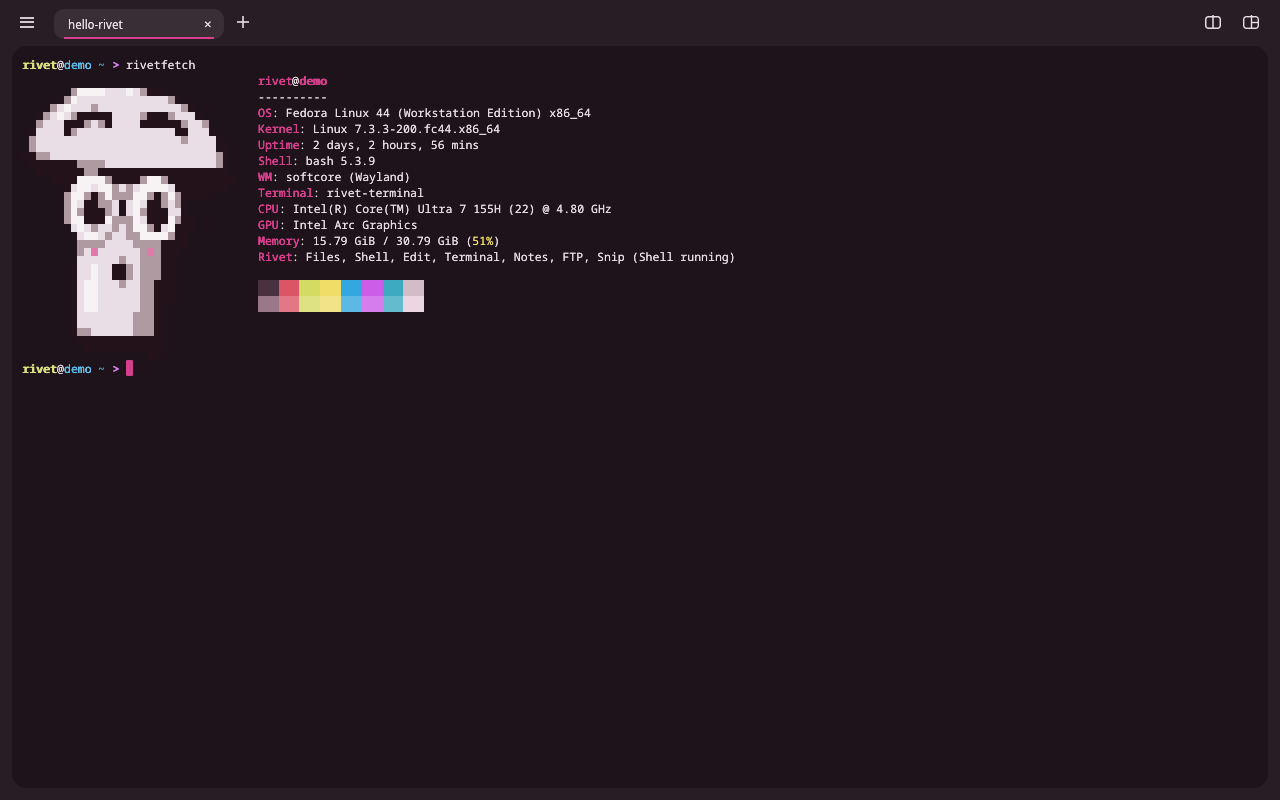
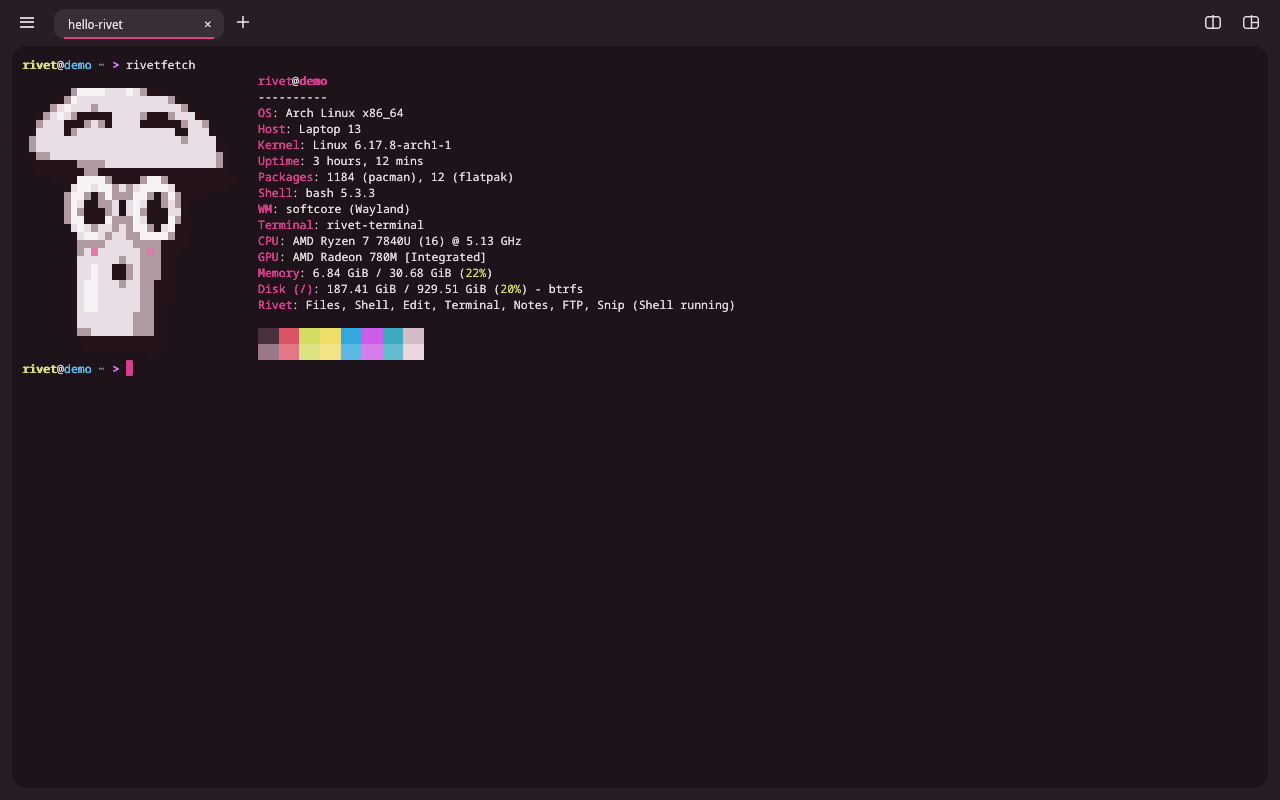
Rivet Vice, Fetch: fuller screenshots with made-up data
Vice's sample archive has 31 files in five folders, and Fetch's picture shows RIVET_FETCH_DEMO's computer instead of the one that took it.

Changed region(s): [[0.1875, 0.125, 0.5625, 0.4688]]

diff --git a/apps/rivet-vice/src/gui.rs b/apps/rivet-vice/src/gui.rs
@@ -147,7 +147,45 @@ fn demo() -> Vec<Entry> {
     let at = 1_795_000_000;
     let f = |path: &str, size: u64, days: i64| Entry { path: path.into(), dir: false, size, modified: at - days * 86400 - size as i64 % 80000 };
     let d = |path: &str, days: i64| Entry { path: path.into(), dir: true, size: 0, modified: at - days * 86400 };
-    vec![d("Trip", 3), d("Trip/Photos", 3), f("Trip/Photos/harbor.jpg", 3_412_880, 9), f("Trip/Photos/lighthouse.jpg", 2_904_112, 9), f("Trip/Photos/low tide.jpg", 4_120_034, 8), d("Trip/Receipts", 5), f("Trip/Receipts/ferry.pdf", 88_410, 12), f("Trip/Receipts/hotel.pdf", 131_902, 11), f("Trip/itinerary.md", 4_211, 20), f("Trip/packing list.txt", 912, 25), f("Trip/route.gpx", 248_330, 14)]
+    vec![
+        d("Trip", 3),
+        d("Trip/Maps", 15),
+        f("Trip/Maps/coast.pdf", 1_204_880, 16),
+        f("Trip/Maps/town.png", 742_116, 15),
+        d("Trip/Notes", 4),
+        f("Trip/Notes/day one.md", 3_120, 9),
+        f("Trip/Notes/day two.md", 2_874, 8),
+        f("Trip/Notes/places to eat.md", 1_874, 4),
+        d("Trip/Photos", 3),
+        f("Trip/Photos/beach huts.jpg", 2_611_004, 9),
+        f("Trip/Photos/cliff path.jpg", 3_002_517, 8),
+        f("Trip/Photos/harbor.jpg", 3_412_880, 9),
+        f("Trip/Photos/lighthouse.jpg", 2_904_112, 9),
+        f("Trip/Photos/low tide.jpg", 4_120_034, 8),
+        f("Trip/Photos/market.jpg", 2_250_870, 7),
+        f("Trip/Photos/pier at dusk.jpg", 3_780_221, 7),
+        f("Trip/Photos/rock pools.jpg", 2_488_660, 6),
+        d("Trip/Receipts", 5),
+        f("Trip/Receipts/ferry.pdf", 88_410, 12),
+        f("Trip/Receipts/hotel.pdf", 131_902, 11),
+        f("Trip/Receipts/museum.pdf", 46_220, 8),
+        d("Trip/Videos", 6),
+        f("Trip/Videos/ferry.mp4", 48_220_114, 9),
+        f("Trip/Videos/waves.mp4", 31_880_402, 6),
+        f("Trip/bookings.ics", 5_610, 21),
+        f("Trip/budget.ods", 18_204, 18),
+        f("Trip/contacts.vcf", 2_118, 22),
+        f("Trip/ferry times.pdf", 152_330, 19),
+        f("Trip/itinerary.md", 4_211, 20),
+        f("Trip/packing list.txt", 912, 25),
+        f("Trip/playlist.m3u", 1_480, 17),
+        f("Trip/route.gpx", 248_330, 14),
+        f("Trip/souvenirs.txt", 640, 5),
+        f("Trip/tickets.pdf", 96_118, 23),
+        f("Trip/tide tables.csv", 7_942, 16),
+        f("Trip/trail map.png", 1_884_506, 15),
+        f("Trip/weather.json", 3_306, 10),
+    ]
 }
 
 impl ViceApp {
@@ -724,11 +762,17 @@ mod tests {
         let all = demo();
         let name = |i: &usize| all[*i].name().to_string();
         // Folders first, then by name.
-        assert_eq!(children(&all, "Trip", (Sort::Name, true)).iter().map(name).collect::<Vec<_>>(), ["Photos", "Receipts", "itinerary.md", "packing list.txt", "route.gpx"]);
+        assert_eq!(
+            children(&all, "Trip", (Sort::Name, true)).iter().map(name).collect::<Vec<_>>(),
+            ["Maps", "Notes", "Photos", "Receipts", "Videos", "bookings.ics", "budget.ods", "contacts.vcf", "ferry times.pdf", "itinerary.md", "packing list.txt", "playlist.m3u", "route.gpx", "souvenirs.txt", "tickets.pdf", "tide tables.csv", "trail map.png", "weather.json"]
+        );
         // Turned round, the biggest file comes first; folders stay on top, in turned-round order too.
-        assert_eq!(children(&all, "Trip", (Sort::Size, false)).iter().map(name).collect::<Vec<_>>(), ["Receipts", "Photos", "route.gpx", "itinerary.md", "packing list.txt"]);
+        assert_eq!(
+            children(&all, "Trip", (Sort::Size, false)).iter().map(name).collect::<Vec<_>>(),
+            ["Videos", "Receipts", "Photos", "Notes", "Maps", "trail map.png", "route.gpx", "ferry times.pdf", "tickets.pdf", "budget.ods", "tide tables.csv", "bookings.ics", "itinerary.md", "weather.json", "contacts.vcf", "playlist.m3u", "packing list.txt", "souvenirs.txt"]
+        );
         assert_eq!(children(&all, "", (Sort::Name, true)).iter().map(name).collect::<Vec<_>>(), ["Trip"]);
-        assert_eq!(inside(&all, "Trip/Receipts"), (2, 88_410 + 131_902));
-        assert_eq!(inside(&all, "Trip").0, 8);
+        assert_eq!(inside(&all, "Trip/Receipts"), (3, 88_410 + 131_902 + 46_220));
+        assert_eq!(inside(&all, "Trip").0, 31);
     }
 }

diff --git a/README.md b/README.md
@@ -145,7 +145,7 @@ from the right-click menu.
 **Early alpha, first release 0.1.0.**
 [More about Rivet Vice](apps/rivet-vice/README.md)
 
-![Rivet Vice inside an archive, with two photos selected to extract](docs/screenshots/rivet-vice-wide.png)
+![Rivet Vice inside a trip archive, with folders of photos, maps and notes](docs/screenshots/rivet-vice-wide.png)
 
 ### <img src="apps/rivet-calendar/data/rivet-calendar.svg" width="32" alt=""> Rivet Calendar
 

diff --git a/apps/rivet-vice/README.md b/apps/rivet-vice/README.md
@@ -3,7 +3,7 @@
 An archive manager for the Rivet desktop: open an archive, see what is in it, take out all
 or some of it, and make new ones. It is unreleased and built from source.
 
-![Rivet Vice inside an archive, with two photos selected to extract](../../docs/screenshots/rivet-vice-wide.png)
+![Rivet Vice inside a trip archive, with folders of photos, maps and notes](../../docs/screenshots/rivet-vice-wide.png)
 
 ```sh
 cargo build -p rivet-vice
